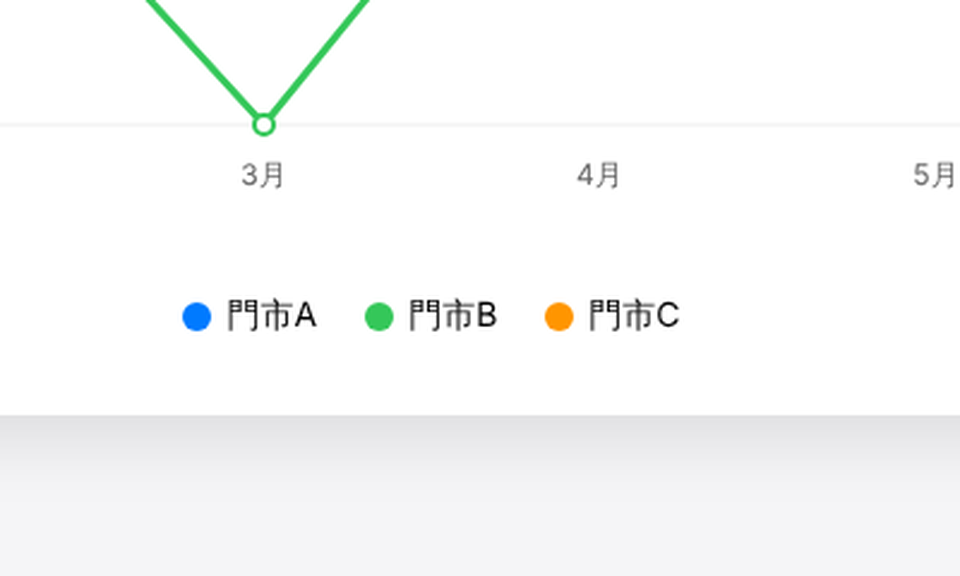
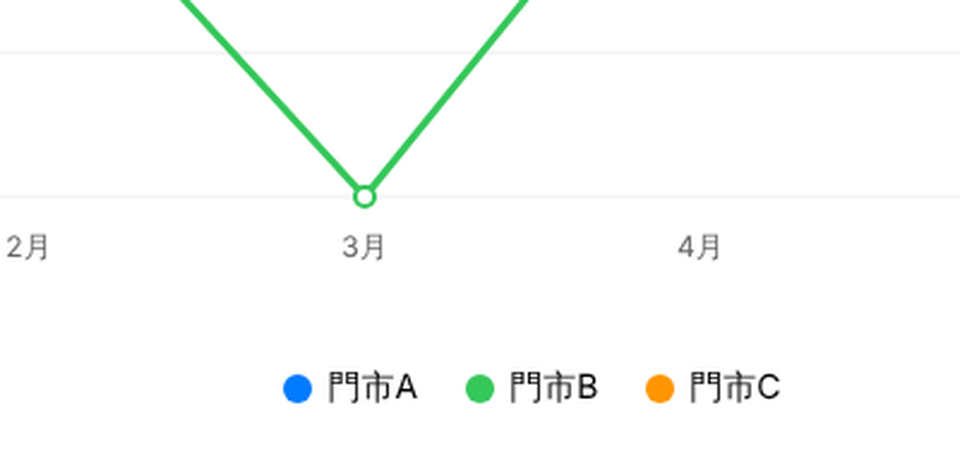
WIP：CaffAIne 存貨片 B 組製作中，未完成
Claude-Session: https://claude.ai/code/session_018gakVT5gMvH3qPioUqmQyY

diff --git a/scripts/caffaine/gen-stock-1117.py b/scripts/caffaine/gen-stock-1117.py
@@ -19,7 +19,7 @@ def fixup(scenes):
             w = lambda x: sum(0.62 if ord(c) < 128 else 1.0 for c in x)
             r["size"] = 300 if w(r["big"]) <= 1.2 else 240 if w(r["big"]) <= 2.5 else 200
             if s["props"].get("q"): r["size"] = min(r["size"], 220)
-            r["usize"] = int(min(120, max(60, (900 - 34 - w(r["big"]) * r["size"]) / max(1, w(r["unit"])))))
+            r["usize"] = int(min(120, max(60, (820 - 34 - w(r["big"]) * r["size"]) / max(1, w(r["unit"])))))
     for s in scenes:
         en = s["subtitle"]["en"].replace(" | ", " ")
         if en: s["subtitle"]["en"] = " | ".join(textwrap.wrap(en, 44))
@@ -78,12 +78,12 @@ S1 = [
  sc("s08","payoff","這次每個品項是一張卡片，尺寸、熱量、價格，不用滑就看得到。",
     "這次每個品項\n是一張卡片\n尺寸、熱量、價格\n不用滑就看得到","Now each item is a card: size, calories, price, | all visible without swiping.",
     [("now","每個品項是一張卡片"),("all","不用滑就看得到")],{"不用滑":"right"},
-    {"left":{"src":P+"phone-fix1.png","label":"修一次：要滑","color":"wrong","at":"start-1"},"right":{"src":P+"phone-fix2.png","label":"說清楚：不用滑","color":"right","at":"now"},"mid":{"text":"價格看得到","at":"all"},"aiAt":"start+8"},
+    {"left":{"src":P+"phone-fix1.png","label":"修一次：要滑","color":"wrong","at":"start-1"},"right":{"src":P+"phone-fix2.png","label":"說清楚：不用滑","color":"right","at":"now"},"mid":{"text":"看得到","at":"all"},"aiAt":"start+8"},
     ["Playwright 實測（tests/table.py）：修兩次後價格欄在畫面內、無橫向捲動"],"修好","right","已確定・實測（1 次）","all+6",2,"split","fix"),
  sc("s09","so","所以做法三步：用手機寬度打開、說清楚要看到什麼、再打開確認。",
     "所以做法三步\n用手機寬度打開\n說清楚要看到什麼\n再打開確認","Three steps: open at phone width, | say what you want to see, check again.",
     [("so","做法三步"),("a","用手機寬度打開"),("b","說清楚要看到什麼"),("c","再打開確認")],{"三步":"right"},
-    {"nodes":[{"icon":"window","label":"手機寬度打開","sub":"390 寬","color":"note","at":"start-1"},{"icon":"chip","label":"說清楚","sub":"要看到什麼","color":"primary","at":"b"},{"icon":"check","label":"再打開確認","sub":"看到才算","color":"right","at":"c"}],"lights":[{"from":"a","to":"b"},{"from":"b+2","to":"c"}],"loopAt":"c+6","chipAt":"c+26","chip":"沒好就再說一句"},
+    {"nodes":[{"icon":"window","label":"手機開看","sub":"390 寬","color":"note","at":"start-1"},{"icon":"chip","label":"說清楚","sub":"要看到什麼","color":"primary","at":"b"},{"icon":"check","label":"再確認","sub":"看到才算","color":"right","at":"c"}],"lights":[{"from":"a","to":"b"},{"from":"b+2","to":"c"}],"loopAt":"c+6","chipAt":"c+26","chip":"沒好就再說一句"},
     ["做法整理；內容取自本次實測"],"所以呢","right","","so",2,"flow","fix"),
  sc("s10","cta","留言「手機」，拿這句修版提示詞。",
     "留言「手機」\n拿這句修版提示詞","Comment “手機” to get the prompt.",
@@ -116,7 +116,7 @@ S2 = [
  sc("s04","twist","但是看三月，門市 B 的線掉到零。表格那格明明是空白。",
     "但是看三月\n門市 B 的線掉到零\n表格那格明明是空白","But look at March: store B drops to zero. | That cell in the table was blank.",
     [("but","但是看三月"),("zero","掉到零"),("blank","那格明明是空白")],{"掉到零":"wrong"},
-    {"src":X+"lens-messy.png","ring":[215,550,110,110],"note":"三月・門市 B","noteAt":"but","scanAt":"zero","stampAt":"blank","stamp":"零","zoom":{"src":X+"messy-zoom.png","w":960,"h":576,"cap":"放大：空白被畫成 0"}},
+    {"src":X+"lens-messy.png","ring":[215,550,110,110],"note":"三月・門市 B","noteAt":"but","scanAt":"zero","stampAt":"blank","stamp":"零","zoom":{"src":X+"messy-zoom.png","w":960,"h":456,"cap":"放大：空白被畫成 0"}},
     ["Playwright 實測截圖；表格 3 月門市 B 為空白（tests/sales-messy.tsv）"],"翻車","wrong","已確定・實測","zero+6",1,"lens","bug"),
  sc("s05","why","空白，不等於零。這是 AI 自己的決定，我沒有交代。",
     "空白，不等於零\n這是 AI 自己的決定\n我沒有交代","Blank is not zero. | That was AI's own call; I never said.",
@@ -131,7 +131,7 @@ S2 = [
  sc("s07","payoff","改完，三月那一段斷開，標著無資料，其他兩條線沒動。",
     "改完\n三月那一段斷開\n標著無資料\n其他兩條線沒動","Fixed: March breaks and says no data. | The other two lines are unchanged.",
     [("done","三月那一段斷開"),("lab","標著無資料"),("keep","其他兩條線沒動")],{"斷開":"right"},
-    {"layout":"stack","top":{"src":X+"messy.png","label":"修之前","color":"wrong","at":"start-1"},"bottom":{"src":X+"fix.png","label":"修之後","color":"right","at":"done"},"mids":[{"text":"無資料","at":"lab","color":"note"},{"text":"其他沒動","at":"keep","color":"right","kind":"stamp"}]},
+    {"layout":"stack","top":{"src":X+"messy.png","label":"修之前","color":"wrong","at":"start-1"},"bottom":{"src":X+"fix.png","label":"修之後","color":"right","at":"done"},"mids":[{"text":"無資料","at":"lab","color":"note"},{"text":"沒動","at":"keep","color":"right","kind":"stamp"}]},
     ["Playwright 實測（tests/shot.py）；只試 1 次"],"修好","right","已確定・實測（1 次）","keep+6",2,"split","fix"),
  sc("s08","unknown","不過我只試了兩份小表格，一個模型，更大的表格行不行，還不知道。",
     "不過我只試了兩份小表格\n一個模型\n更大的表格行不行\n還不知道","But I tried only two small tables and one model. | Bigger tables: unknown.",
@@ -141,7 +141,7 @@ S2 = [
  sc("s09","so","所以做法三步：貼表格、看圖有沒有怪點，有就說清楚。",
     "所以做法三步\n貼表格\n看圖有沒有怪點\n有就說清楚","Three steps: paste the table, check for odd points, | and say it clearly if so.",
     [("so","做法三步"),("a","貼表格"),("b","看圖有沒有怪點"),("c","有就說清楚")],{"三步":"right"},
-    {"nodes":[{"icon":"file","label":"貼表格","sub":"直接複製貼上","color":"note","at":"start-1"},{"icon":"mag","label":"看有沒有怪點","sub":"零、缺口、跳動","color":"primary","at":"b"},{"icon":"chip","label":"說清楚","sub":"空白代表什麼","color":"right","at":"c"}],"lights":[{"from":"a","to":"b"},{"from":"b+2","to":"c"}],"loopAt":"c+6","chipAt":"c+26","chip":"有毛病就說一句"},
+    {"nodes":[{"icon":"file","label":"貼表格","sub":"直接複製貼上","color":"note","at":"start-1"},{"icon":"mag","label":"看怪點","sub":"零、缺口、跳動","color":"primary","at":"b"},{"icon":"chip","label":"說清楚","sub":"空白代表什麼","color":"right","at":"c"}],"lights":[{"from":"a","to":"b"},{"from":"b+2","to":"c"}],"loopAt":"c+6","chipAt":"c+26","chip":"有毛病就說一句"},
     ["做法整理；內容取自本次實測"],"所以呢","right","","so",2,"flow","fix"),
  sc("s10","cta","留言「圖表」，拿這句貼表格的提示詞。",
     "留言「圖表」\n拿這句貼表格的提示詞","Comment “圖表” to get the prompt.",
@@ -204,7 +204,7 @@ S3 = [
  sc("s10","so","所以做法三步：貼講義、檢查題目、哪裡看不懂就說。",
     "所以做法三步\n貼講義\n檢查題目\n哪裡看不懂就說","Three steps: paste the handout, check the questions, | and say what's unclear.",
     [("so","做法三步"),("a","貼講義"),("b","檢查題目"),("c","哪裡看不懂就說")],{"三步":"right"},
-    {"nodes":[{"icon":"file","label":"貼講義","sub":"整段貼上","color":"note","at":"start-1"},{"icon":"mag","label":"檢查題目","sub":"對照講義","color":"primary","at":"b"},{"icon":"chip","label":"哪裡不懂就說","sub":"一句話改","color":"right","at":"c"}],"lights":[{"from":"a","to":"b"},{"from":"b+2","to":"c"}],"loopAt":"c+6","chipAt":"c+26","chip":"有毛病就說一句"},
+    {"nodes":[{"icon":"file","label":"貼講義","sub":"整段貼上","color":"note","at":"start-1"},{"icon":"mag","label":"檢查題目","sub":"對照講義","color":"primary","at":"b"},{"icon":"chip","label":"說不懂處","sub":"一句話改","color":"right","at":"c"}],"lights":[{"from":"a","to":"b"},{"from":"b+2","to":"c"}],"loopAt":"c+6","chipAt":"c+26","chip":"有毛病就說一句"},
     ["做法整理；內容取自本次實測"],"所以呢","right","","so",2,"flow","fix"),
  sc("s11","cta","留言「小考」，拿這句出題提示詞。",
     "留言「小考」\n拿這句出題提示詞","Comment “小考” to get the prompt.",
